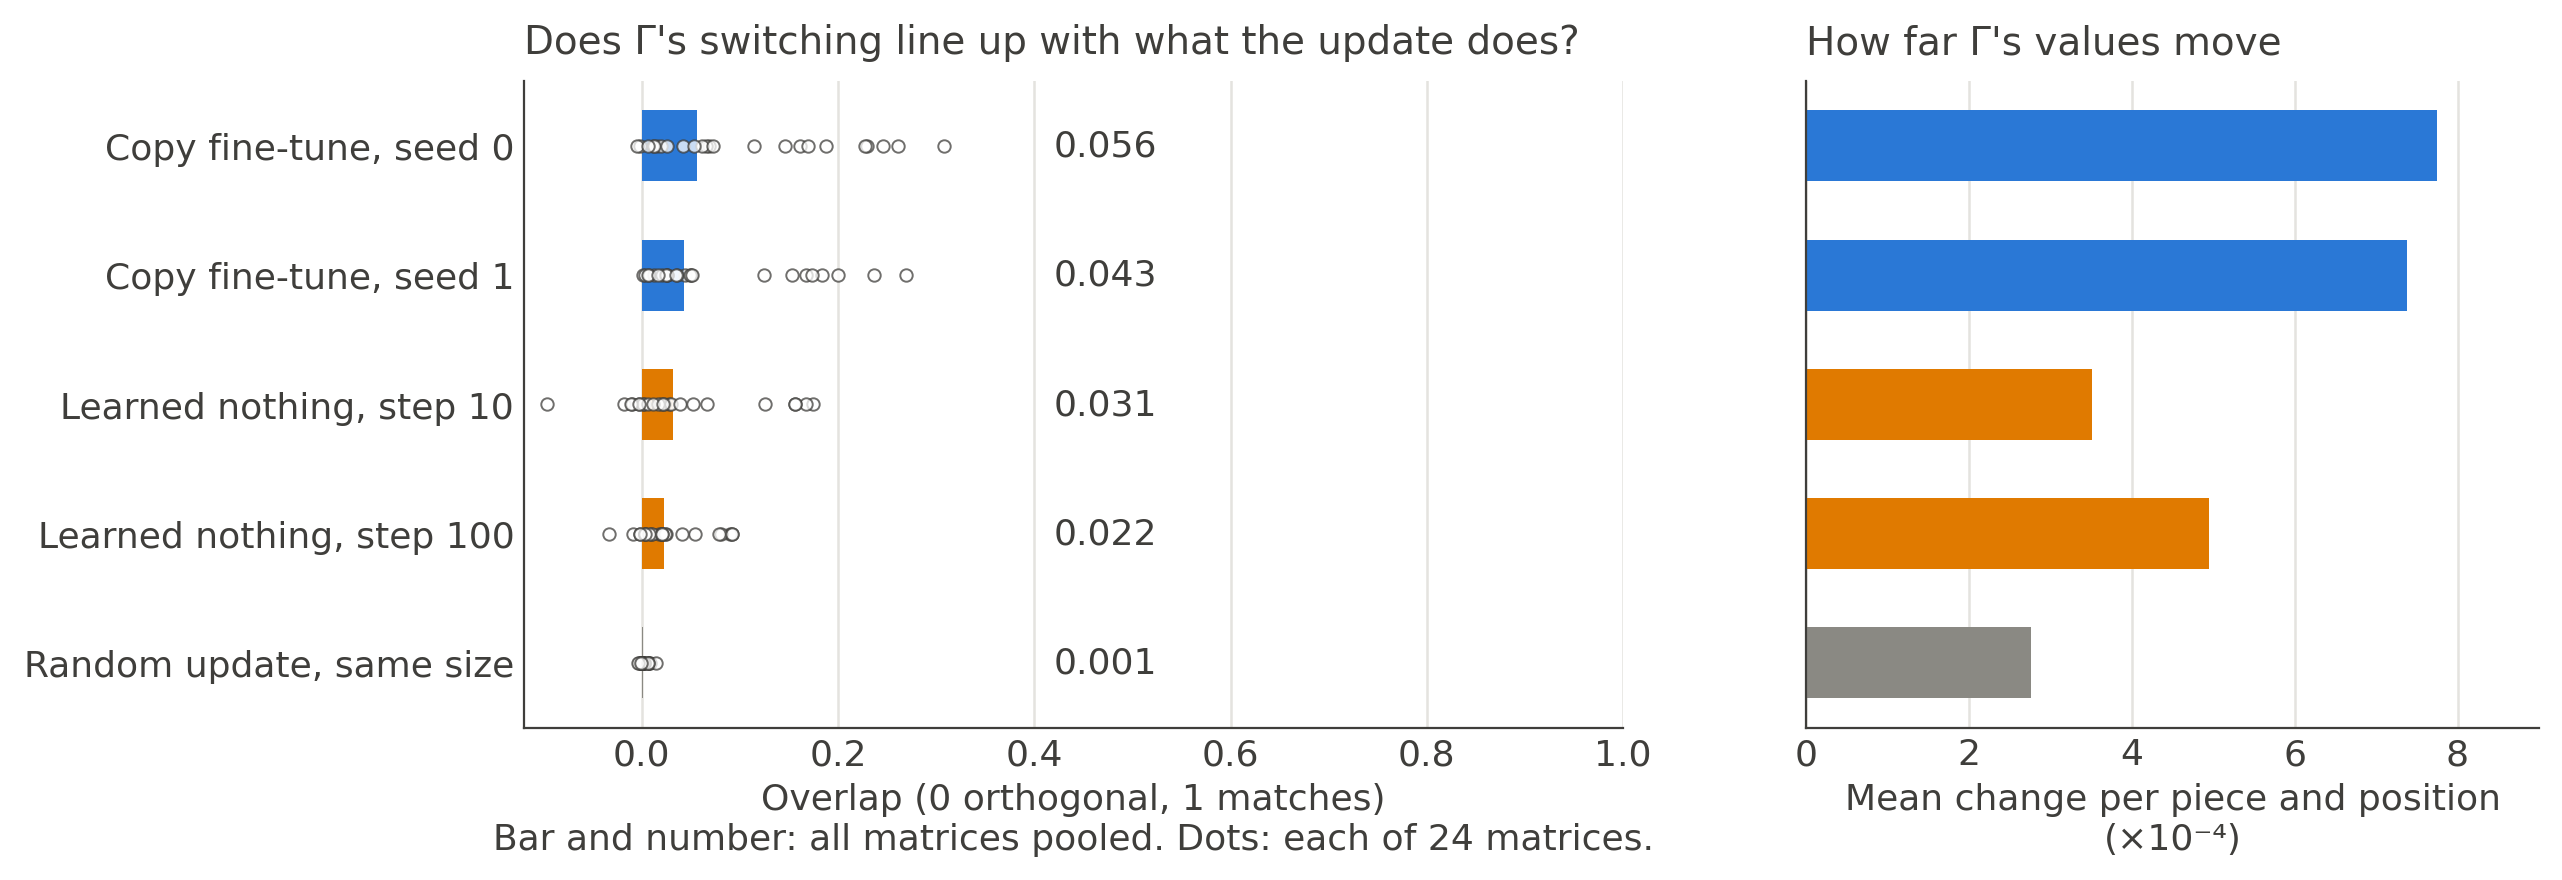
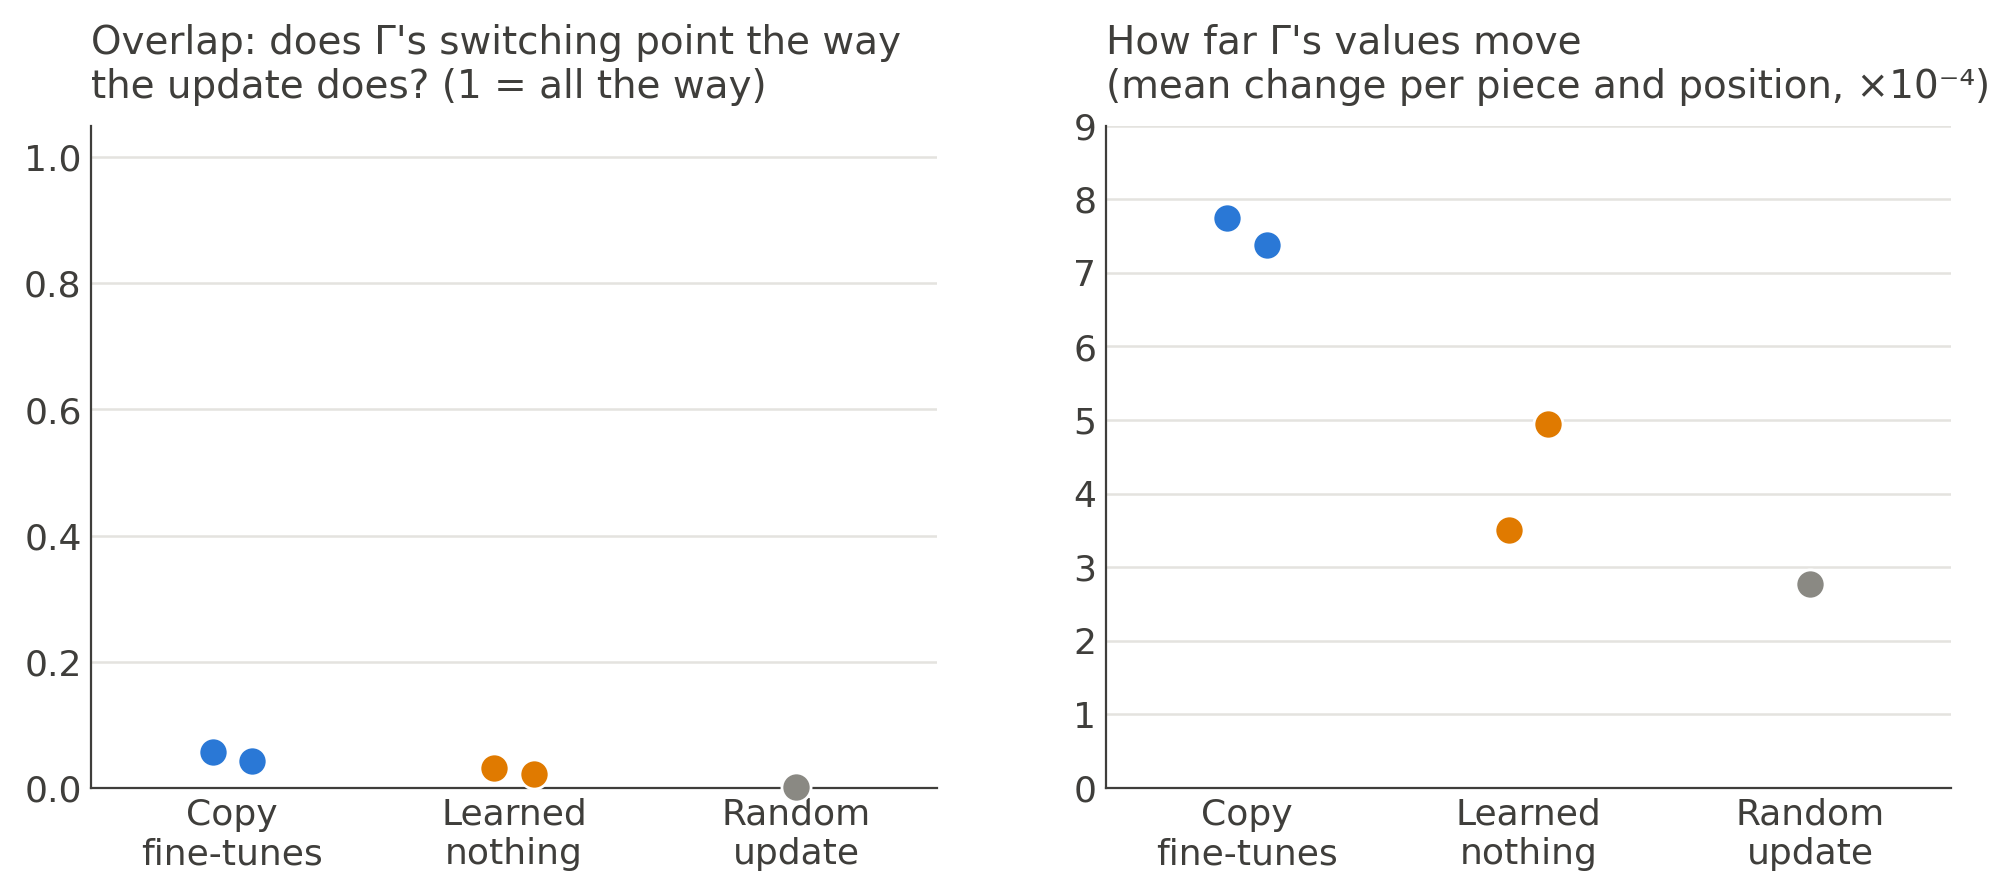
Q2 slide figures: redraw around the story, drop the three unreadable ones

diff --git a/experiments/open_pair/plot_q2_deck.py b/experiments/open_pair/plot_q2_deck.py
@@ -1,10 +1,9 @@
 """The Q2 slide's figures (new against existing), from saved results only, with no model.
 
-  q2_routes.png          E12: outside share, r and the masked-off share, copy tasks against random maps
-  q2_three_readings.png  method table: W0's prior, r and steering on the same eight pairs
-  q2_r_prior_carry.png   E58 and E62: r against the prior, and E58's r against carry
-  q2_copying_head.png    E62: the prior, the gain lost with the copying head off, and r
-  q2_overlap.png         E67: the overlap share and how far Γ's values move
+  q2_routes.png        E12: outside share, r and the masked-off share, copy tasks against random maps
+  q2_every_family.png  E60: r and steering on three task families, built to reuse against built to be new
+  q2_r_vs_prior.png    E58 and E62: r against the original model's prior of the trained answer
+  q2_overlap.png       E67: the overlap share and how far Γ's values move
 
 Usage (repo root):  ~/commute-agents/fleet/cpu-run python experiments/open_pair/plot_q2_deck.py
 """
@@ -12,7 +11,6 @@ Usage (repo root):  ~/commute-agents/fleet/cpu-run python experiments/open_pair/
 from __future__ import annotations
 
 import json
-import math
 from pathlib import Path
 from typing import Any
 
@@ -20,7 +18,7 @@ import matplotlib
 
 matplotlib.use("Agg")
 import matplotlib.pyplot as plt
-from plot_amend7 import carry30, read
+from plot_amend7 import read
 
 ROOT = Path(__file__).resolve().parents[2]
 FIG = ROOT / "experiments/open_pair/figures"
@@ -68,153 +66,85 @@ def routes() -> None:
     save(fig, "q2_routes.png")
 
 
-ROWS = [
-    ("Answers far apart in prior", None),
-    ("Rank-1 vs cipher", "e58_rank1_96"),
-    ("Half-known vs cipher", "e54_matched"),
-    ("Half-known vs its shuffle", "e58_elicit_shuffle"),
-    ("Answers close in prior", None),
-    ("Copy vs prior-matched cipher", "e58_copy_prior_cipher"),
-    ("Copy at new marker vs lookup", "e62_copy_lookup"),
-    ("Class rule vs its shuffled twin", "e58_class_twin"),
-    ("Prior not read", None),
-    ("Copy vs random maps", "e46_copy_random"),
-    ("Lowercase vs ciphers", "e53_lowercase_cipher"),
-]
-
-
-def pair(ax: Any, y: float, first: float, second: float) -> None:
-    ax.plot([first, second], [y, y], color=GREY, lw=2.2, zorder=2)
-    ax.scatter([second], [y], s=95, facecolor="white", edgecolor=ORANGE, lw=2.2, zorder=3)
-    ax.scatter([first], [y], s=95, color=BLUE, edgecolor="white", lw=1, zorder=4)
-
-
-def three_readings() -> None:
-    table = json.loads((ROOT / "experiments/method_table/results/table.json").read_text())
-    rows = {r["id"]: r["cells"] for r in table["rows"]}
-    fig, axes = plt.subplots(1, 3, figsize=(13.5, 6.3), sharey=True, gridspec_kw={"width_ratios": [1.05, 1, 1]})
-    labels, ticks = [], []
-    for i, (name, row) in enumerate(ROWS):
-        y = len(ROWS) - i
-        if row is None:
-            axes[0].text(-0.02, y - 0.1, name, transform=axes[0].get_yaxis_transform(), ha="right", va="center", fontweight="bold", fontsize=12.5)
-            continue
-        labels.append(name)
-        ticks.append(y)
-        for ax, method, log in zip(axes, ("prior", "r", "steering"), (True, False, False)):
-            reading = rows[row][method]["reading"]
-            if not reading.get("reuse") or not reading.get("new"):
-                x = 3e-5 if log else 0.5
-                ax.text(x, y, "not read", color=GREY, ha="center", va="center", fontsize=12)
-                continue
-            a, b = mean(reading["reuse"]), mean(reading["new"])
-            pair(ax, y, math.exp(a) if log else a, math.exp(b) if log else b)
-    axes[0].set_yticks(ticks, labels)
-    axes[0].set_xscale("log")
-    axes[0].set_xlim(1e-7, 1e-1)
-    axes[0].set_xticks([1e-7, 1e-5, 1e-3, 1e-1])
-    for ax in axes[1:]:
-        ax.set_xlim(0, 1.15)
-        ax.set_xticks([0, 0.5, 1], ["0", "0.5", "1"])
-    for ax, title in zip(axes, ("Original model's probability\nof the trained answer", "r: share of the gain\nfrom Γ's switching alone",
-                                "Steering: share of the gain\nfrom one mean vector")):
-        clean(ax, title)
-    axes[0].set_ylim(0.4, len(ROWS) + 0.6)
-    handles = [plt.Line2D([], [], marker="o", ls="", ms=10, color=BLUE, label="First map named"),
-               plt.Line2D([], [], marker="o", ls="", ms=10, markerfacecolor="white", markeredgecolor=ORANGE, markeredgewidth=2, label="Second map named")]
-    fig.legend(handles=handles, loc="lower center", ncol=2, frameon=False, bbox_to_anchor=(0.55, -0.05))
-    save(fig, "q2_three_readings.png")
+def every_family() -> None:
+    runs = json.loads((ROOT / "experiments/regating_truth_table/results/table.json").read_text())["runs"]
+    families = (("Copy vs\nrandom maps", ("e46/ident32",), ("e46/rand32",)),
+                ("Lowercase\nvs ciphers", ("e53/lowercase",), ("e53/cipher", "e53/broad_cipher")),
+                ("Half-known\nvs cipher", ("e54/elicit",), ("e54/cipher",)))
+    fig, axes = plt.subplots(1, 2, figsize=(12, 4.6), sharey=True)
+    for ax, key, title in zip(axes, ("r", "S"), ("r: gain from old pieces\nthat Γ switches on", "Steering: gain from one mean vector,\nno decomposition needed")):
+        for x, (_, reuse, new_side) in enumerate(families):
+            for prefixes, color, centre in ((reuse, BLUE, x - 0.17), (new_side, ORANGE, x + 0.17)):
+                values = [v[key]["value"] for k, v in runs.items() if k.rsplit("_s", 1)[0].removesuffix("b") in prefixes or k.rsplit("_s", 1)[0] in prefixes]
+                spread = [centre + 0.05 * (i - (len(values) - 1) / 2) for i in range(len(values))]
+                ax.scatter(spread, values, s=110, color=color, edgecolor="white", lw=1, zorder=3)
+        ax.set_xticks(range(3), [f[0] for f in families])
+        ax.set_xlim(-0.55, 2.55)
+        ax.set_ylim(0, 1.05)
+        clean(ax, title, "y")
+    handles = [plt.Line2D([], [], marker="o", ls="", ms=10, color=BLUE, label="Built on something the model already does"),
+               plt.Line2D([], [], marker="o", ls="", ms=10, color=ORANGE, label="Built to be new")]
+    fig.legend(handles=handles, loc="lower center", ncol=2, frameon=False, bbox_to_anchor=(0.5, -0.07))
+    save(fig, "q2_every_family.png")
 
 
 LABEL = {"rank1": "rank-1", "elicit": "half-known", "copy": "copy", "prior_cipher": "prior-matched cipher", "shuffle": "shuffled half-known",
          "cipher": "cipher", "class_shuffled": "shuffled twin", "class_map": "class rule"}
-OFFSET_PRIOR = {"rank1": (-10, 2, "right"), "elicit": (10, -10, "left"), "copy": (-10, 4, "right"), "prior_cipher": (8, -14, "left"), "shuffle": (8, 4, "left"),
-                "cipher": (10, -9, "left"), "class_shuffled": (-4, 16, "left"), "class_map": (6, -16, "left")}
-OFFSET_CARRY = {"rank1": (10, 0, "left"), "elicit": (10, 2, "left"), "copy": (-10, 6, "right"), "prior_cipher": (8, 6, "left"), "shuffle": (10, 6, "left"),
-                "cipher": (-10, -2, "right"), "class_shuffled": (8, 6, "left"), "class_map": (10, 0, "left")}
+OFFSET = {"rank1": (-11, 2, "right"), "elicit": (11, -9, "left"), "copy": (-11, 4, "right"), "prior_cipher": (9, -14, "left"), "shuffle": (9, 5, "left"),
+          "cipher": (11, -8, "left"), "class_shuffled": (-4, 16, "left"), "class_map": (7, -15, "left")}
+KNOWN = ("rank1", "elicit", "copy")
 
 
-def r_prior_carry() -> None:
-    a7 = read("amend7")
-    prior, carry = a7["prior_beside_r"], carry30(a7)
+def r_vs_prior() -> None:
+    prior = read("amend7")["prior_beside_r"]
     run = json.loads((ROOT / "experiments/induction_cue/results/run.json").read_text())
-    fig, (left, right) = plt.subplots(1, 2, figsize=(13, 5.4), sharey=True)
+    fig, ax = plt.subplots(figsize=(10.5, 5.2))
     for m, v in prior.items():
-        y = mean(v["r30"])
-        left.scatter([v["w0_geo_p_trained"]], [y], s=100, color=BLUE, edgecolor="white", lw=1, zorder=3)
-        right.scatter([mean(carry[m])], [y], s=100, color=BLUE, edgecolor="white", lw=1, zorder=3)
-        for ax, x, off in ((left, v["w0_geo_p_trained"], OFFSET_PRIOR[m]), (right, mean(carry[m]), OFFSET_CARRY[m])):
-            ax.annotate(LABEL[m], (x, y), xytext=off[:2], textcoords="offset points", ha=off[2], va="center", fontsize=12)
-    for name, key, off in (("copy at new marker", "prior_copy", (-10, 0, "right")), ("lookup at new marker", "prior_lookup", (10, -2, "left"))):
-        kind = name.split()[0]
-        y = mean([run["states"][f"{kind}_s{s}"]["r"] for s in range(3)])
-        x = run["stage_b"][key]
-        left.scatter([x], [y], s=110, marker="D", color=PURPLE, edgecolor="white", lw=1, zorder=3)
-        left.annotate(name, (x, y), xytext=off[:2], textcoords="offset points", ha=off[2], va="center", fontsize=12)
-    left.set_xscale("log")
-    left.set_xlim(1e-7, 1e-1)
-    left.set_xticks([1e-7, 1e-5, 1e-3, 1e-1])
-    left.set_ylim(0, 1.2)
-    left.set_ylabel("r, at step 30")
-    left.set_xlabel("Original model's probability of the trained answer")
-    right.set_xlim(-0.3, 1)
-    right.set_xlabel("Carry: gain at unseen keys ÷ gain at trained keys")
-    clean(left, "r against how likely the answer already was", "both")
-    clean(right, "r against how far the map carries to unseen keys", "both")
-    handles = [plt.Line2D([], [], marker="o", ls="", ms=10, color=BLUE, label="Eight key maps, 96 trained keys"),
-               plt.Line2D([], [], marker="D", ls="", ms=9, color=PURPLE, label="Two maps taught at a new marker (carry not read)")]
-    fig.legend(handles=handles, loc="lower center", ncol=2, frameon=False, bbox_to_anchor=(0.5, -0.07))
-    save(fig, "q2_r_prior_carry.png")
-
-
-def copying_head() -> None:
-    run = json.loads((ROOT / "experiments/induction_cue/results/run.json").read_text())
-    st, b = run["states"], run["stage_b"]
-    fig, axes = plt.subplots(1, 3, figsize=(13, 3.1), sharey=True)
-    for y, (kind, color, key) in enumerate((("lookup", ORANGE, "prior_lookup"), ("copy", BLUE, "prior_copy"))):
-        axes[0].scatter([b[key]], [y], s=120, color=color, edgecolor="white", lw=1, zorder=3)
-        for ax, field in ((axes[1], "share"), (axes[2], "r")):
-            ax.scatter([st[f"{kind}_s{s}"][field] for s in range(3)], [y] * 3, s=120, color=color, edgecolor="white", lw=1, alpha=0.85, zorder=3)
-    axes[0].set_yticks([0, 1], ["Lookup at new marker", "Copy at new marker"])
-    axes[0].set_ylim(-0.6, 1.6)
-    axes[0].set_xscale("log")
-    axes[0].set_xlim(1e-7, 1e-1)
-    axes[0].set_xticks([1e-7, 1e-5, 1e-3, 1e-1])
-    axes[1].set_xlim(-0.1, 1.2)
-    axes[2].set_xlim(-0.1, 1.2)
-    for ax, title in zip(axes, ("Original model's probability\nof the trained answer", "Gain lost with the model's\ncopying head switched off", "r: share of the gain\nfrom Γ's switching alone")):
-        clean(ax, title)
-    save(fig, "q2_copying_head.png")
+        x, y = v["w0_geo_p_trained"], mean(v["r30"])
+        ax.scatter([x], [y], s=115, color=BLUE if m in KNOWN else ORANGE, edgecolor="white", lw=1, zorder=3)
+        off = OFFSET[m]
+        ax.annotate(LABEL[m], (x, y), xytext=off[:2], textcoords="offset points", ha=off[2], va="center", fontsize=12.5)
+    for kind, key, color, off in (("copy", "prior_copy", BLUE, (-12, 0, "right")), ("lookup", "prior_lookup", ORANGE, (12, -2, "left"))):
+        x, y = run["stage_b"][key], mean([run["states"][f"{kind}_s{s}"]["r"] for s in range(3)])
+        ax.scatter([x], [y], s=125, marker="D", color=color, edgecolor="white", lw=1, zorder=3)
+        ax.annotate(f"{kind} at a new marker", (x, y), xytext=off[:2], textcoords="offset points", ha=off[2], va="center", fontsize=12.5)
+    ax.set_xscale("log")
+    ax.set_xlim(1e-7, 1e-1)
+    ax.set_xticks([1e-7, 1e-5, 1e-3, 1e-1])
+    ax.set_ylim(0, 1.2)
+    ax.set_ylabel("r")
+    ax.set_xlabel("Original model's probability of the trained answer, before any fine-tune")
+    clean(ax, "r climbs with how likely the answer already was", "y")
+    handles = [plt.Line2D([], [], marker="o", ls="", ms=10, color=BLUE, label="Built on something the model already does"),
+               plt.Line2D([], [], marker="o", ls="", ms=10, color=ORANGE, label="Built to be new"),
+               plt.Line2D([], [], marker="D", ls="", ms=9, color=GREY, label="Diamond: taught at a new marker")]
+    fig.legend(handles=handles, loc="lower center", ncol=3, frameon=False, bbox_to_anchor=(0.5, -0.07))
+    save(fig, "q2_r_vs_prior.png")
 
 
 def overlap() -> None:
     run = json.loads((ROOT / "experiments/weight_side_read/results/run.json").read_text())
-    states = [("Copy fine-tune, seed 0", "state_ident32_s0", BLUE), ("Copy fine-tune, seed 1", "state_ident32_s1", BLUE),
-              ("Learned nothing, step 10", "state_code_step10", ORANGE), ("Learned nothing, step 100", "state_code_step100", ORANGE),
-              ("Random update, same size", "state_gaussian", GREY)]
-    fig, (left, right) = plt.subplots(1, 2, figsize=(13, 4.2), sharey=True, gridspec_kw={"width_ratios": [1.5, 1]})
-    for i, (_, key, color) in enumerate(states):
-        y = len(states) - 1 - i
-        s = run[key]
-        left.barh([y], [s["S_R"]], height=0.55, color=color, zorder=2)
-        left.scatter([m["S_R"] for m in s["per_matrix"].values()], [y] * 24, s=20, facecolor="white", edgecolor=INK, lw=0.7, alpha=0.75, zorder=3)
-        left.text(0.42, y, f"{s['S_R']:.3f}", va="center", ha="left", fontsize=13)
-        right.barh([y], [s["mean_abs_dg"] * 1e4], height=0.55, color=color, zorder=2)
-    left.set_yticks(range(len(states)), [s[0] for s in reversed(states)])
-    left.set_xlim(-0.12, 1)
-    left.set_xlabel("Overlap (0 orthogonal, 1 matches)\nBar and number: all matrices pooled. Dots: each of 24 matrices.")
-    right.set_xlabel("Mean change per piece and position\n(×10⁻⁴)")
-    right.set_xlim(0, 9)
-    clean(left, "Does Γ's switching line up with what the update does?")
-    clean(right, "How far Γ's values move")
+    groups = (("Copy\nfine-tunes", ("state_ident32_s0", "state_ident32_s1"), BLUE), ("Learned\nnothing", ("state_code_step10", "state_code_step100"), ORANGE),
+              ("Random\nupdate", ("state_gaussian",), GREY))
+    fig, (left, right) = plt.subplots(1, 2, figsize=(12, 4.3))
+    for x, (_, keys, color) in enumerate(groups):
+        offs = [-0.07, 0.07] if len(keys) == 2 else [0.0]
+        left.scatter([x + o for o in offs], [run[k]["S_R"] for k in keys], s=110, color=color, edgecolor="white", lw=1, zorder=3, clip_on=False)
+        right.scatter([x + o for o in offs], [run[k]["mean_abs_dg"] * 1e4 for k in keys], s=110, color=color, edgecolor="white", lw=1, zorder=3)
+    for ax in (left, right):
+        ax.set_xticks(range(3), [g[0] for g in groups])
+        ax.set_xlim(-0.5, 2.5)
+    left.set_ylim(0, 1.05)
+    right.set_ylim(0, 9)
+    clean(left, "Overlap: does Γ's switching point the way\nthe update does? (1 = all the way)", "y")
+    clean(right, "How far Γ's values move\n(mean change per piece and position, ×10⁻⁴)", "y")
     save(fig, "q2_overlap.png")
 
 
 def main() -> None:
     routes()
-    three_readings()
-    r_prior_carry()
-    copying_head()
+    every_family()
+    r_vs_prior()
     overlap()
 
 
